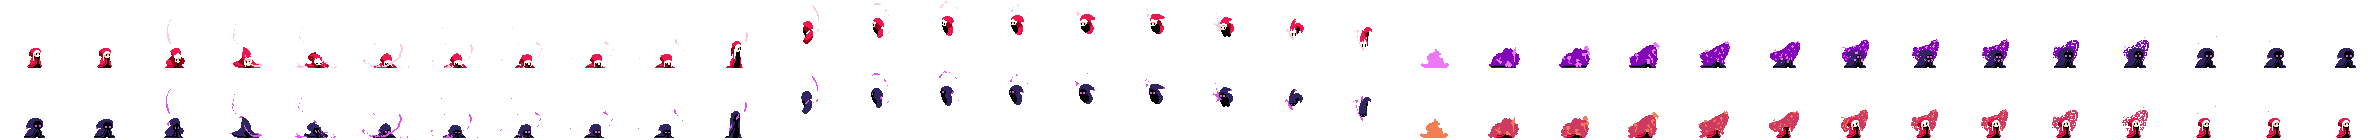
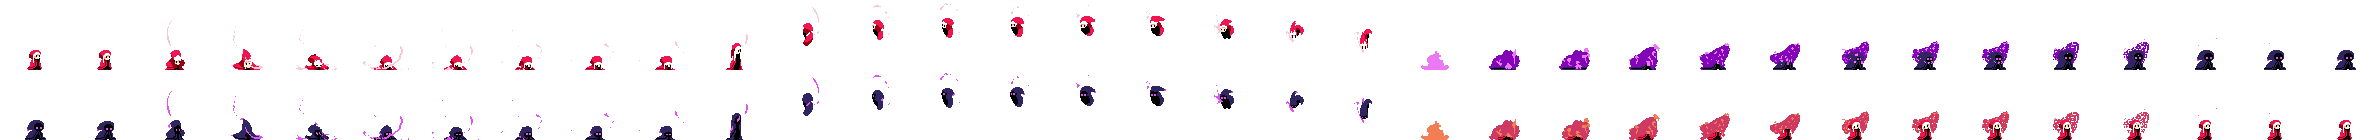
исправила спрайты, чтобы не было странного поведения

diff --git a/src/main/java/ru/nsu/klochikhina/entities/Player.java b/src/main/java/ru/nsu/klochikhina/entities/Player.java
@@ -16,7 +16,7 @@ public class Player extends Entity{
     private int aniIndex = 0, attIndex = 0, transIndex = 0;
     private int action = TRANSFORM;
     private boolean isMoving = false, isAttacking = false;
-    private boolean isLeft, isRight, isUp, isDown, isRed = true;
+    private boolean isLeft, isRight, isUp, isDown, isRed = true, needToTransform = false;
     
     public Player(float x, float y) {
         super(x, y);
@@ -30,13 +30,14 @@ public class Player extends Entity{
     }
     
     public void render(Graphics graphics){
-        if(action >= 0 && action <= 5)
-            graphics.drawImage(animations[action + (isRed ? 0 : 1)][aniIndex], (int)x, (int)y, 128, 128, null);
-        else if(action == 6)
-            graphics.drawImage(attack[isRed ? 0 : 1][attIndex], (int)x, (int)y, 240, 240, null);
-        else {
-            graphics.drawImage(transformation[isRed ? 1 : 0][transIndex], (int) x - 55, (int) y - 128, 240, 240, null);
-            action = IDLE;
+        if(action >= IDLE && action <= HIT)
+            graphics.drawImage(animations[action * 2 + (isRed ? 0 : 1)][aniIndex], (int)x, (int)y, 128, 128, null);
+        else if(action == ATTACK)
+            graphics.drawImage(attack[isRed ? 0 : 1][attIndex], (int)(x - 5.0), (int)(y - 113.0), 240, 240, null);
+        else if (action == TRANSFORM){
+            graphics.drawImage(transformation[isRed ? 1 : 0][transIndex], (int) (x - 73.0), (int) (y - 151.0), 280, 280, null);
+            if (transIndex == transformation[0].length - 1)
+                needToTransform = false;
         }
     }
     
@@ -74,14 +75,15 @@ public class Player extends Entity{
         
         if (isMoving)
             action = RUNNING;
-        else if (isUp)
-            action = JUMP;
-        else if(!isRed) {
-            action = TRANSFORM;
-            isRed = true;
-        }
         else
             action = IDLE;
+        
+        if (isUp)
+            action = JUMP;
+        else if(needToTransform)
+            action = TRANSFORM;
+        else if(isLeft || isRight)
+            action = RUNNING;
         
         if(isAttacking)
             action = ATTACK;
@@ -92,7 +94,10 @@ public class Player extends Entity{
     
     private void resetAniTick() {
         aniTick = 0;
+        
         aniIndex = 0;
+        attIndex = 0;
+        transIndex = 0;
     }
     
     private void updatePosition() {
@@ -129,7 +134,7 @@ public class Player extends Entity{
         int attackWidthHeight = 60;
         int transformWidthHeight = 70;
         
-        animations = new BufferedImage[12][20];
+        animations = new BufferedImage[12][30];
         attack = new BufferedImage[2][6];
         transformation = new BufferedImage[2][34];
         
@@ -173,6 +178,7 @@ public class Player extends Entity{
     
     public void changeCharacter() {
         isRed = !isRed;
+        needToTransform = true;
     }
     
     public boolean isLeft() {

diff --git a/src/main/java/ru/nsu/klochikhina/utils/Constants.java b/src/main/java/ru/nsu/klochikhina/utils/Constants.java
@@ -22,6 +22,7 @@ public class Constants {
                 case TRANSFORM:
                     return 34;
                 case IDLE:
+                    return 30;
                 case DEATH:
                     return 20;
                 case JUMP:
@@ -30,6 +31,7 @@ public class Constants {
                 case ATTACK:
                     return 6;
                 case HIT:
+                    return 5;
                 case FALLING:
                 default:
                     return 4;
